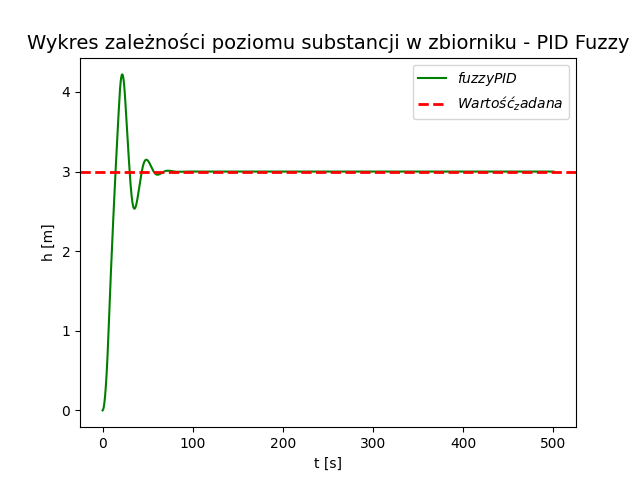
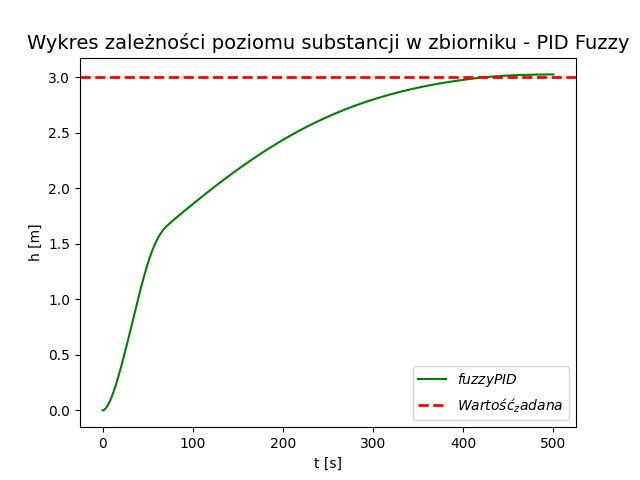
changes_frontpagee

diff --git a/templates/view_pid_simulator.html b/templates/view_pid_simulator.html
@@ -1,59 +1,56 @@
 {% extends "base.html" %}
-{% block link %}
-    <link rel="stylesheet" href="/static/prod-assets/bootstrap.min.css">
-{% endblock %}
 {% block section %}
     <div class="container">
         <form method="POST" action="/">
             {{ form.hidden_tag() }}
             <form>
-                <div class="row mt-5">
-                    <div class="col-4">
-                        <h2>Ustawienie parametrów regulatora</h2>
+                <div class="row mt-4">
+                    <div class="col-6">
+                        <h3>Ustawienie parametrów regulatora</h3>
                         <div class="form-group">
-                            <label for="sample_time_range">Okres próbkowania <abbr class="help" title="Okres próbkowania, obliczny jest ze wzoru 10 000 * wybrana przez użykownika wartość ze slidera"><code><i class="fa fa-question-circle" aria-hidden="true"></i></code></abbr></label>
+                            <label for="sample_time_range">Okres próbkowania [0;1]</label>
                             <div class="w-75">
                                 {{ form.sample_time(type="range", class="custom-range form-control", id="sample_time_range", min="0", max="1", step="0.01") }}
                             </div>
                             <span class="font-weight-bold ml-2 sample_time_value"></span>
                         </div>
                         <div class="form-group">
-                            <label for="differential_time_range">Czas wyprzedzenia <abbr class="help" title="Czas wyprzedzenie działa aktualnie tylko w wykresie dla zwykłego PID"><code><i class="fa fa-question-circle" aria-hidden="true"></i></code></abbr></label>
+                            <label for="differential_time_range">Czas wyprzedzenia [0;1]</label>
                             <div class="w-75">
                                 {{ form.differential_time(type="range", class="custom-range form-control", id="differential_time_range", min="0", max="1", step="0.01") }}
                             </div>
                             <span class="font-weight-bold ml-2 differential_time_value"></span>
                         </div>
                         <div class="form-group">
-                            <label for="integration_time_range">Czas zdwojenia</label>
+                            <label for="integration_time_range">Czas zdwojenia [0;1]</label>
                             <div class="w-75">
                                 {{ form.integration_time(type="range", class="custom-range form-control", id="integration_time_range", min="0", max="1", step="0.01") }}
                             </div>
                             <span class="font-weight-bold ml-2 integration_time_value"></span>
                         </div>
                         <div class="form-group">
-                            <label for="gain_range">Wartość wzmocnienia regulatora</label>
+                            <label for="gain_range">Wartość wzmocnienia regulatora [0;15]</label>
                             <div class="w-75">
                                 {{ form.gain(type="range", class="custom-range form-control", id="gain_range", min="0", max="15", step="0.1") }}
                             </div>
                             <span class="font-weight-bold ml-2 gain_value"></span>
                         </div>
                         <div class="form-group">
-                            <label for="h_z_range">Wartość zadana</label>
+                            <label for="h_z_range">Wartość zadana [0;10]</label>
                             <div class="w-75">
                                 {{ form.h_z(type="range", class="custom-range form-control", id="h_z_range", min="0", max="10", step="0.1") }}
                             </div>
                             <span class="font-weight-bold ml-2 h_z_value"></span>
                         </div>
                             <div class="form-group">
-                            <label for="error_range">Fuzzy Error</label>
+                            <label for="error_range">Fuzzy Error [0;10]</label>
                             <div class="w-75">
                                 {{ form.error(type="range", class="custom-range form-control", id="error_range", min="0", max="10", step="0.01") }}
                             </div>
                             <span class="font-weight-bold ml-2 error_value"></span>
                         </div>
                           <div class="form-group">
-                            <label for="errorChange_range">Fuzzy Error Change</label>
+                            <label for="errorChange_range">Fuzzy Error Change [0;10]</label>
                             <div class="w-75">
                                 {{ form.errorChange(type="range", class="custom-range form-control", id="errorChange_range", min="0", max="10", step="0.01") }}
                             </div>
@@ -61,8 +58,8 @@
                         </div>
 
                     </div>
-                    <div class="col-4">
-                        <h2>Ustawienie parametrów zbiornika</h2>
+                    <div class="col-5">
+                        <h3>Ustawienie parametrów zbiornika</h3>
                         <div class="form-group">
                             <label for="surface_area_range">Pole powierzchni przekroju poprzecznego</label>
                             {{ form.A (type="number", class="form-control", id="surface_area_range", step="0.1" )}}
@@ -75,9 +72,7 @@
                             <label for="h_max_range">Maksymalny poziom substancji w zbiorniku</label>
                             {{ form.h_max (type="number", class="form-control", id="h_max_range")}}
                         </div>
-                    </div>
-                    <div class="col-4">
-                        <h2>Ustawienie parametrów zaworu</h2>
+                                <h3>Ustawienie parametrów zaworu</h3>
                         <div class="form-group">
                             <label for="u_max_range">Maksymalna wartość sygnału sterującego</label>
                             {{ form.u_max (type="number", class="form-control", id="u_max_range")}}
@@ -91,13 +86,29 @@
                             {{ form.Q_d_max (type="number", class="form-control", id="Q_d_max_range")}}
                         </div>
                     </div>
-                </div>
+                    </div>
                 <div class="row mt-1">
-                    <div class="form-group p-3 mx-auto">
-                        {{ form.submit_all (class="btn btn-dark") }}
+                    <div class="form-group p-3 mx-auto ">
+                        <button type="submit" class="btn btn-outline-dark btn-floating">
+                            <i class="fas fa-check"></i> Zatwierdź dane</a>
+                        </button>
+                        <a class="btn btn-outline-dark btn-floating m-1" href="{{ url_for('index') }}" role="button">
+                            <i class="fas fa-broom"></i> Wyczyść Dane</a>
                     </div>
                 </div>
             </form>
         </form>
     </div>
+{#PRZYCISKI DOLNE#}
+    <div class="container my-3">
+	<div class="col-md-12 text-center">
+		<input type="button" id='retrieve' class="btn btn-outline-dark btn-floating mb-2" name="submit"
+					 value="Generuj wykres dla PID"/>
+		<input type="button" id='fuzzy'
+					 class="btn btn-outline-dark mb-2"
+					 name="submit"
+					 value="Generuj wykres dla Fuzzy PID"/>
+		<input type="button" id='PidAndFuzzy' class="btn btn-outline-dark mb-2" name="submit" value="Generuj porównanie">
+	</div>
+</div>
 {% endblock %}

diff --git a/templates/base.html b/templates/base.html
@@ -11,11 +11,25 @@
 	<script src="/static/animation_js/index.js" type="text/javascript"></script>
 	<link rel="stylesheet" href="/static/prod-assets/style.css">
 	<link rel="stylesheet" href="https://cdnjs.cloudflare.com/ajax/libs/font-awesome/6.0.0-beta3/css/all.min.css"/>
+    <link rel="stylesheet" href="https://stackpath.bootstrapcdn.com/bootstrap/4.3.1/css/bootstrap.min.css">
 </head>
 <body style="margin: 0; padding: 0">
-<header class="header">
-	<span>PID & ROZMYTY PID</span>
-</header>
+ <nav class="navbar navbar-expand-lg navbar-dark bg-dark">
+  <a class="navbar-brand" href="#"><img src="https://dostanesie.pl/api/s3/dstpl-media-files/PP.apng" alt="PP_LOGO" width="70" height="70"></a>
+  <button class="navbar-toggler" type="button" data-toggle="collapse" data-target="#navbarNavAltMarkup" aria-controls="navbarNavAltMarkup" aria-expanded="false" aria-label="Toggle navigation">
+    <span class="navbar-toggler-icon"></span>
+  </button>
+  <div class="collapse navbar-collapse" id="navbarNavAltMarkup">
+    <div class="navbar-nav">
+      <a class="nav-item nav-link" href="{{ url_for('index') }}">Strona Główna <span class="sr-only">(current)</span></a>
+      <a class="nav-item nav-link" href="{{ url_for('GetAboutPID') }}">PID</a>
+      <a class="nav-item nav-link" href="{{ url_for('GetAboutFuzzyPID') }}">Fuzzy PID </a>
+      <a class="nav-item nav-link" href="{{ url_for('GetAboutMe') }}">O Autorze</a>
+    </div>
+  </div>
+</nav>
+
+
 {% block section %}
 {% endblock %}
 {% block footer %}
@@ -35,21 +49,13 @@
 		<span class="lds-roller__text">Trwa generowanie wykresu, proszę czekać</span>
 	</div>
 </div>
-<div class="container my-3">
-	<div class="col-md-12 text-center">
-		<input type="button" id='retrieve' class="btn btn-dark mb-2" name="submit"
-					 value="Generuj wykres dla PID"/>
-		<input type="button" id='fuzzy'
-					 class="btn btn-dark mb-2"
-					 name="submit"
-					 value="Generuj wykres dla Fuzzy PID"/>
-		<input type="button" id='PidAndFuzzy' class="btn btn-dark mb-2" name="submit" value="Generuj porównanie">
+<img src="" id="myimg" class="mx-auto d-block "/>
+<footer class="footer bg-dark text-white">
+    <div class="text-center p-3">
+	<span class="text-center">© 2022 Copyright: Jakub Werwiński </span>
 	</div>
-</div>
-<img src="" id="myimg" class="mx-auto d-block"/>
-<footer class="footer">
-	<span>by WerVa</span>
-	<a href="https://github.com/WerVa/ISS_PID">Link do github</a>
+    <a class="btn btn-outline-light btn-floating m-1" href="https://github.com/WerVa/ISS_PID" role="button"
+        ><i class="fab fa-github"></i></a>
 </footer>
 </body>
 </html>

diff --git a/templates/AboutFuzzyPID.html b/templates/AboutFuzzyPID.html
@@ -1,0 +1,4 @@
+{% extends "base.html" %}
+{% block section %}
+
+{% endblock %}

diff --git a/templates/AboutMe.html b/templates/AboutMe.html
@@ -1,0 +1,4 @@
+{% extends "base.html" %}
+{% block section %}
+
+{% endblock %}

diff --git a/templates/AboutPID.html b/templates/AboutPID.html
@@ -1,0 +1,4 @@
+{% extends "base.html" %}
+{% block section %}
+
+{% endblock %}

diff --git a/static/animation_js/index.js b/static/animation_js/index.js
@@ -48,3 +48,4 @@ $(document).ready(function () {
 		});
 	});
 });
+

diff --git a/compute.py b/compute.py
@@ -48,7 +48,6 @@ class UAR:
             for key, value in data_dict.items():
                 listatoUaR.append(value)
         listatoUaR.remove(listatoUaR[0])
-        listatoUaR.remove(listatoUaR[-1])
         self.pid['sample_time'] = float(listatoUaR[0])
         self.pid['differential_time'] = float(listatoUaR[1]) # niewykorzystywane w fuzzy
         self.pid['integration_time'] = float(listatoUaR[2])  # niewykorzystywane w fuzzy
@@ -220,8 +219,8 @@ class UAR:
 
         for x in range(1, self.N):
             e = self.pid['h_z'][x] - self.valvee['y'][1][x - 1]
+            ke = e * (1 / self.fuzzy_val['k_e'])
             e = e * self.fuzzy_val['k_e']
-            #ke = e * (1 / self.fuzzy_val['k_e'])
             #temp.append(ke)
             if e > 1:
                 e = 1

diff --git a/app.py b/app.py
@@ -51,6 +51,18 @@ def GenerateSet():
     UAR.Porownanie(obiekt)
     return "porownanie.png"
 
+@app.route("/AboutMe")
+def GetAboutMe():
+    return render_template('AboutMe.html', title="O Autorze")
+
+@app.route("/AboutPID")
+def GetAboutPID():
+    return render_template('AboutPID.html')
+
+@app.route("/AboutFuzzyPID")
+def GetAboutFuzzyPID():
+    return render_template('AboutFuzzyPID.html')
+
 
 if __name__ == '__main__':
     app.run()
